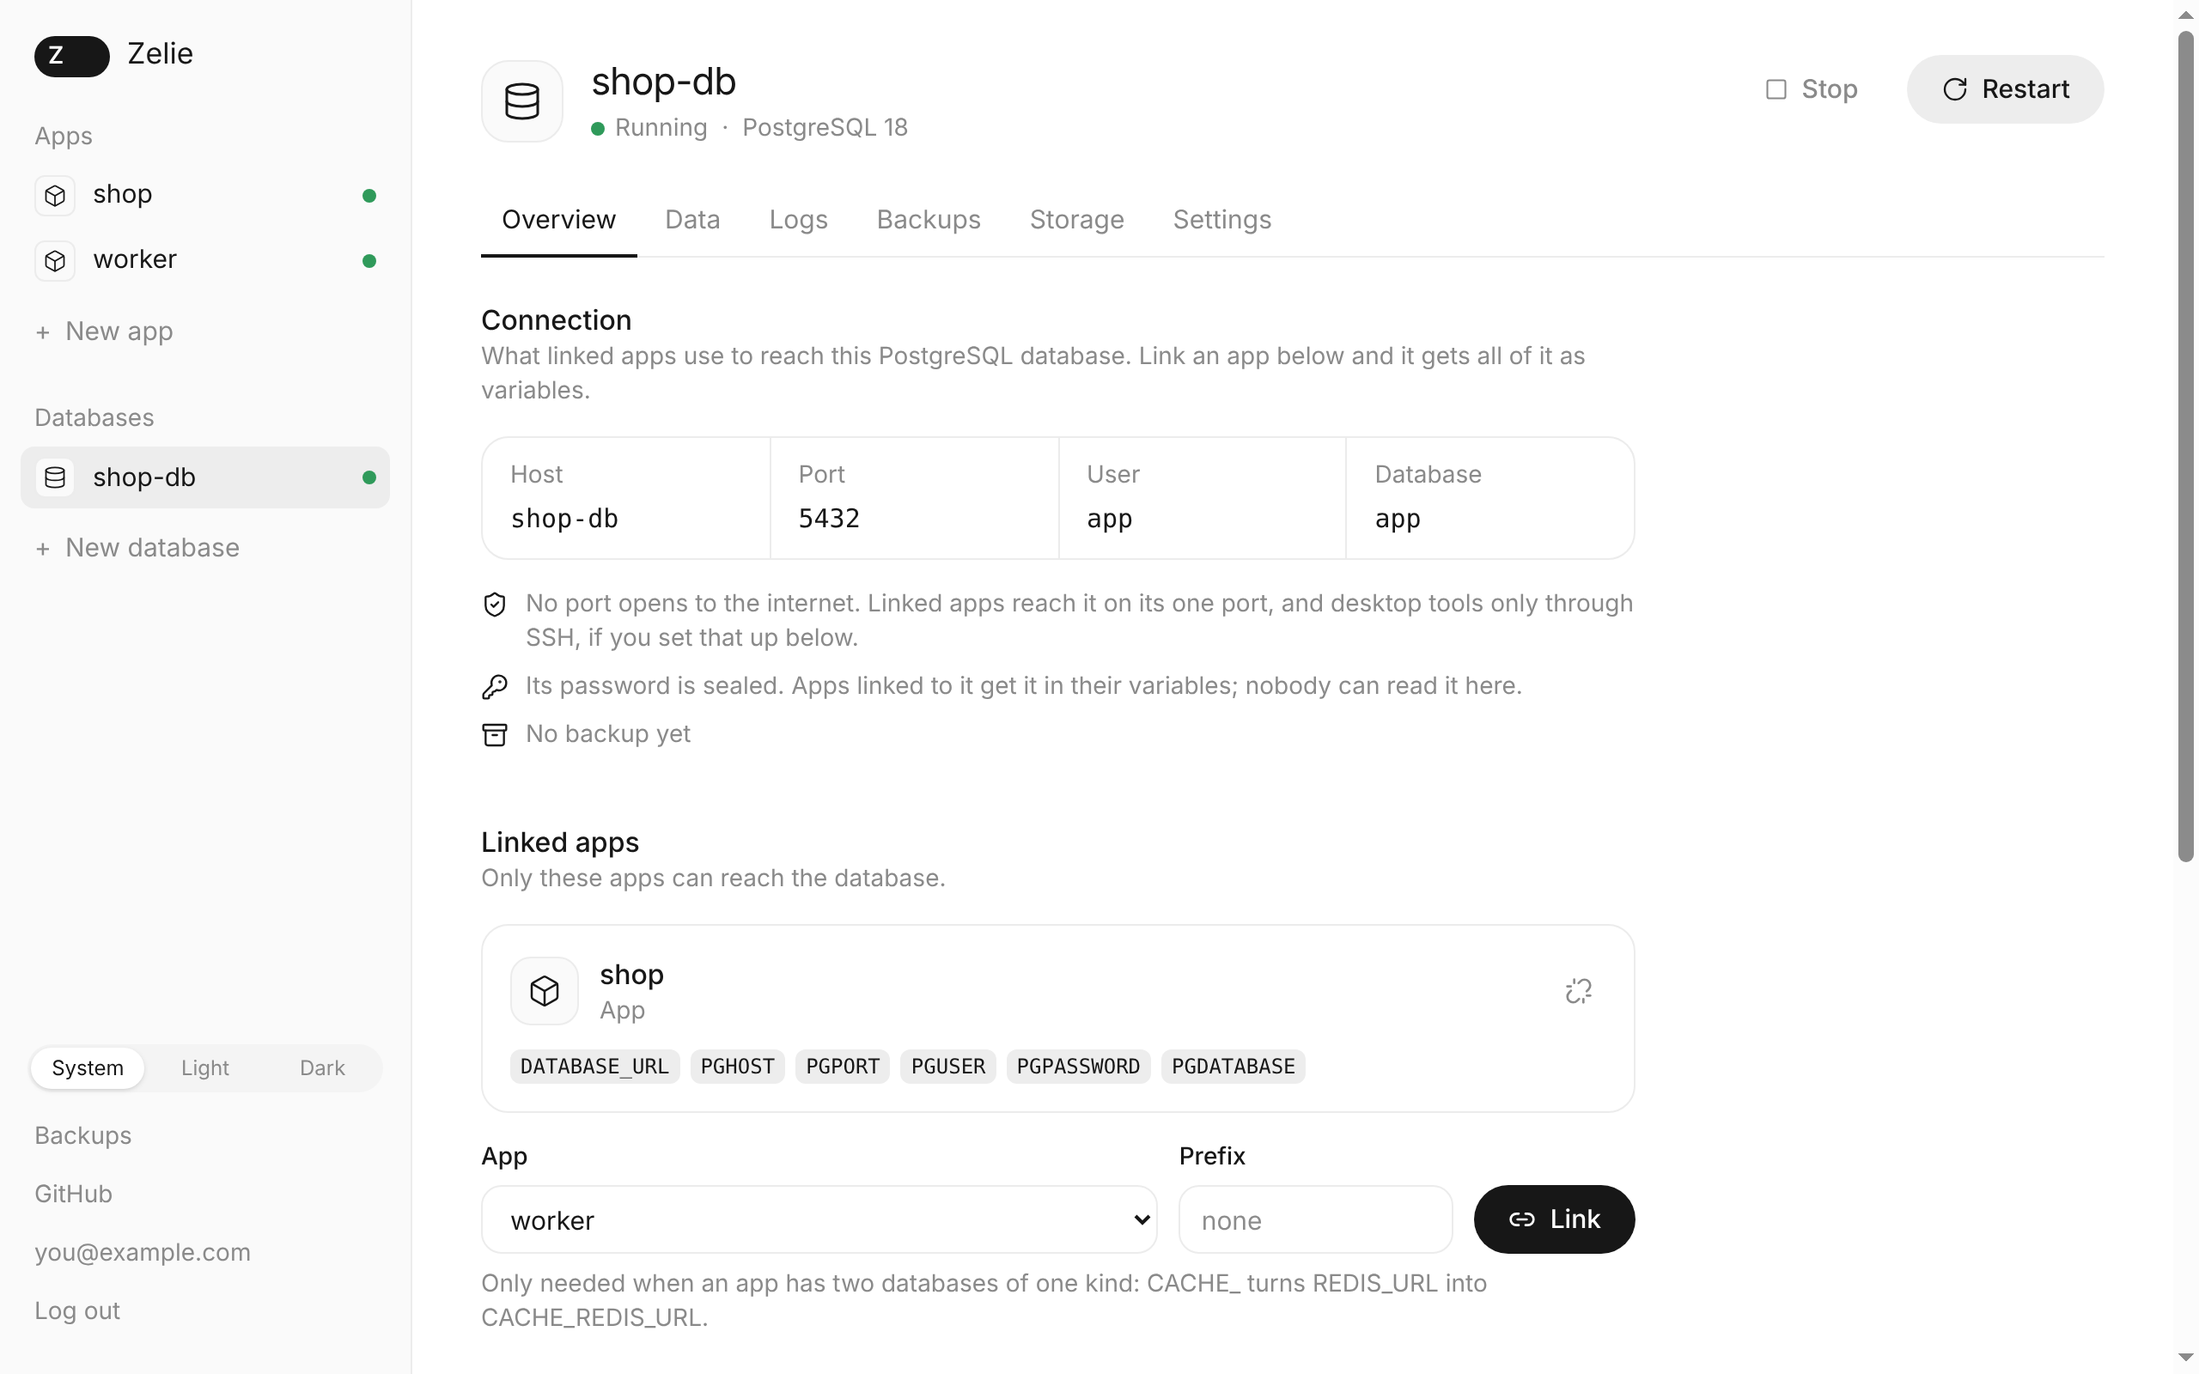
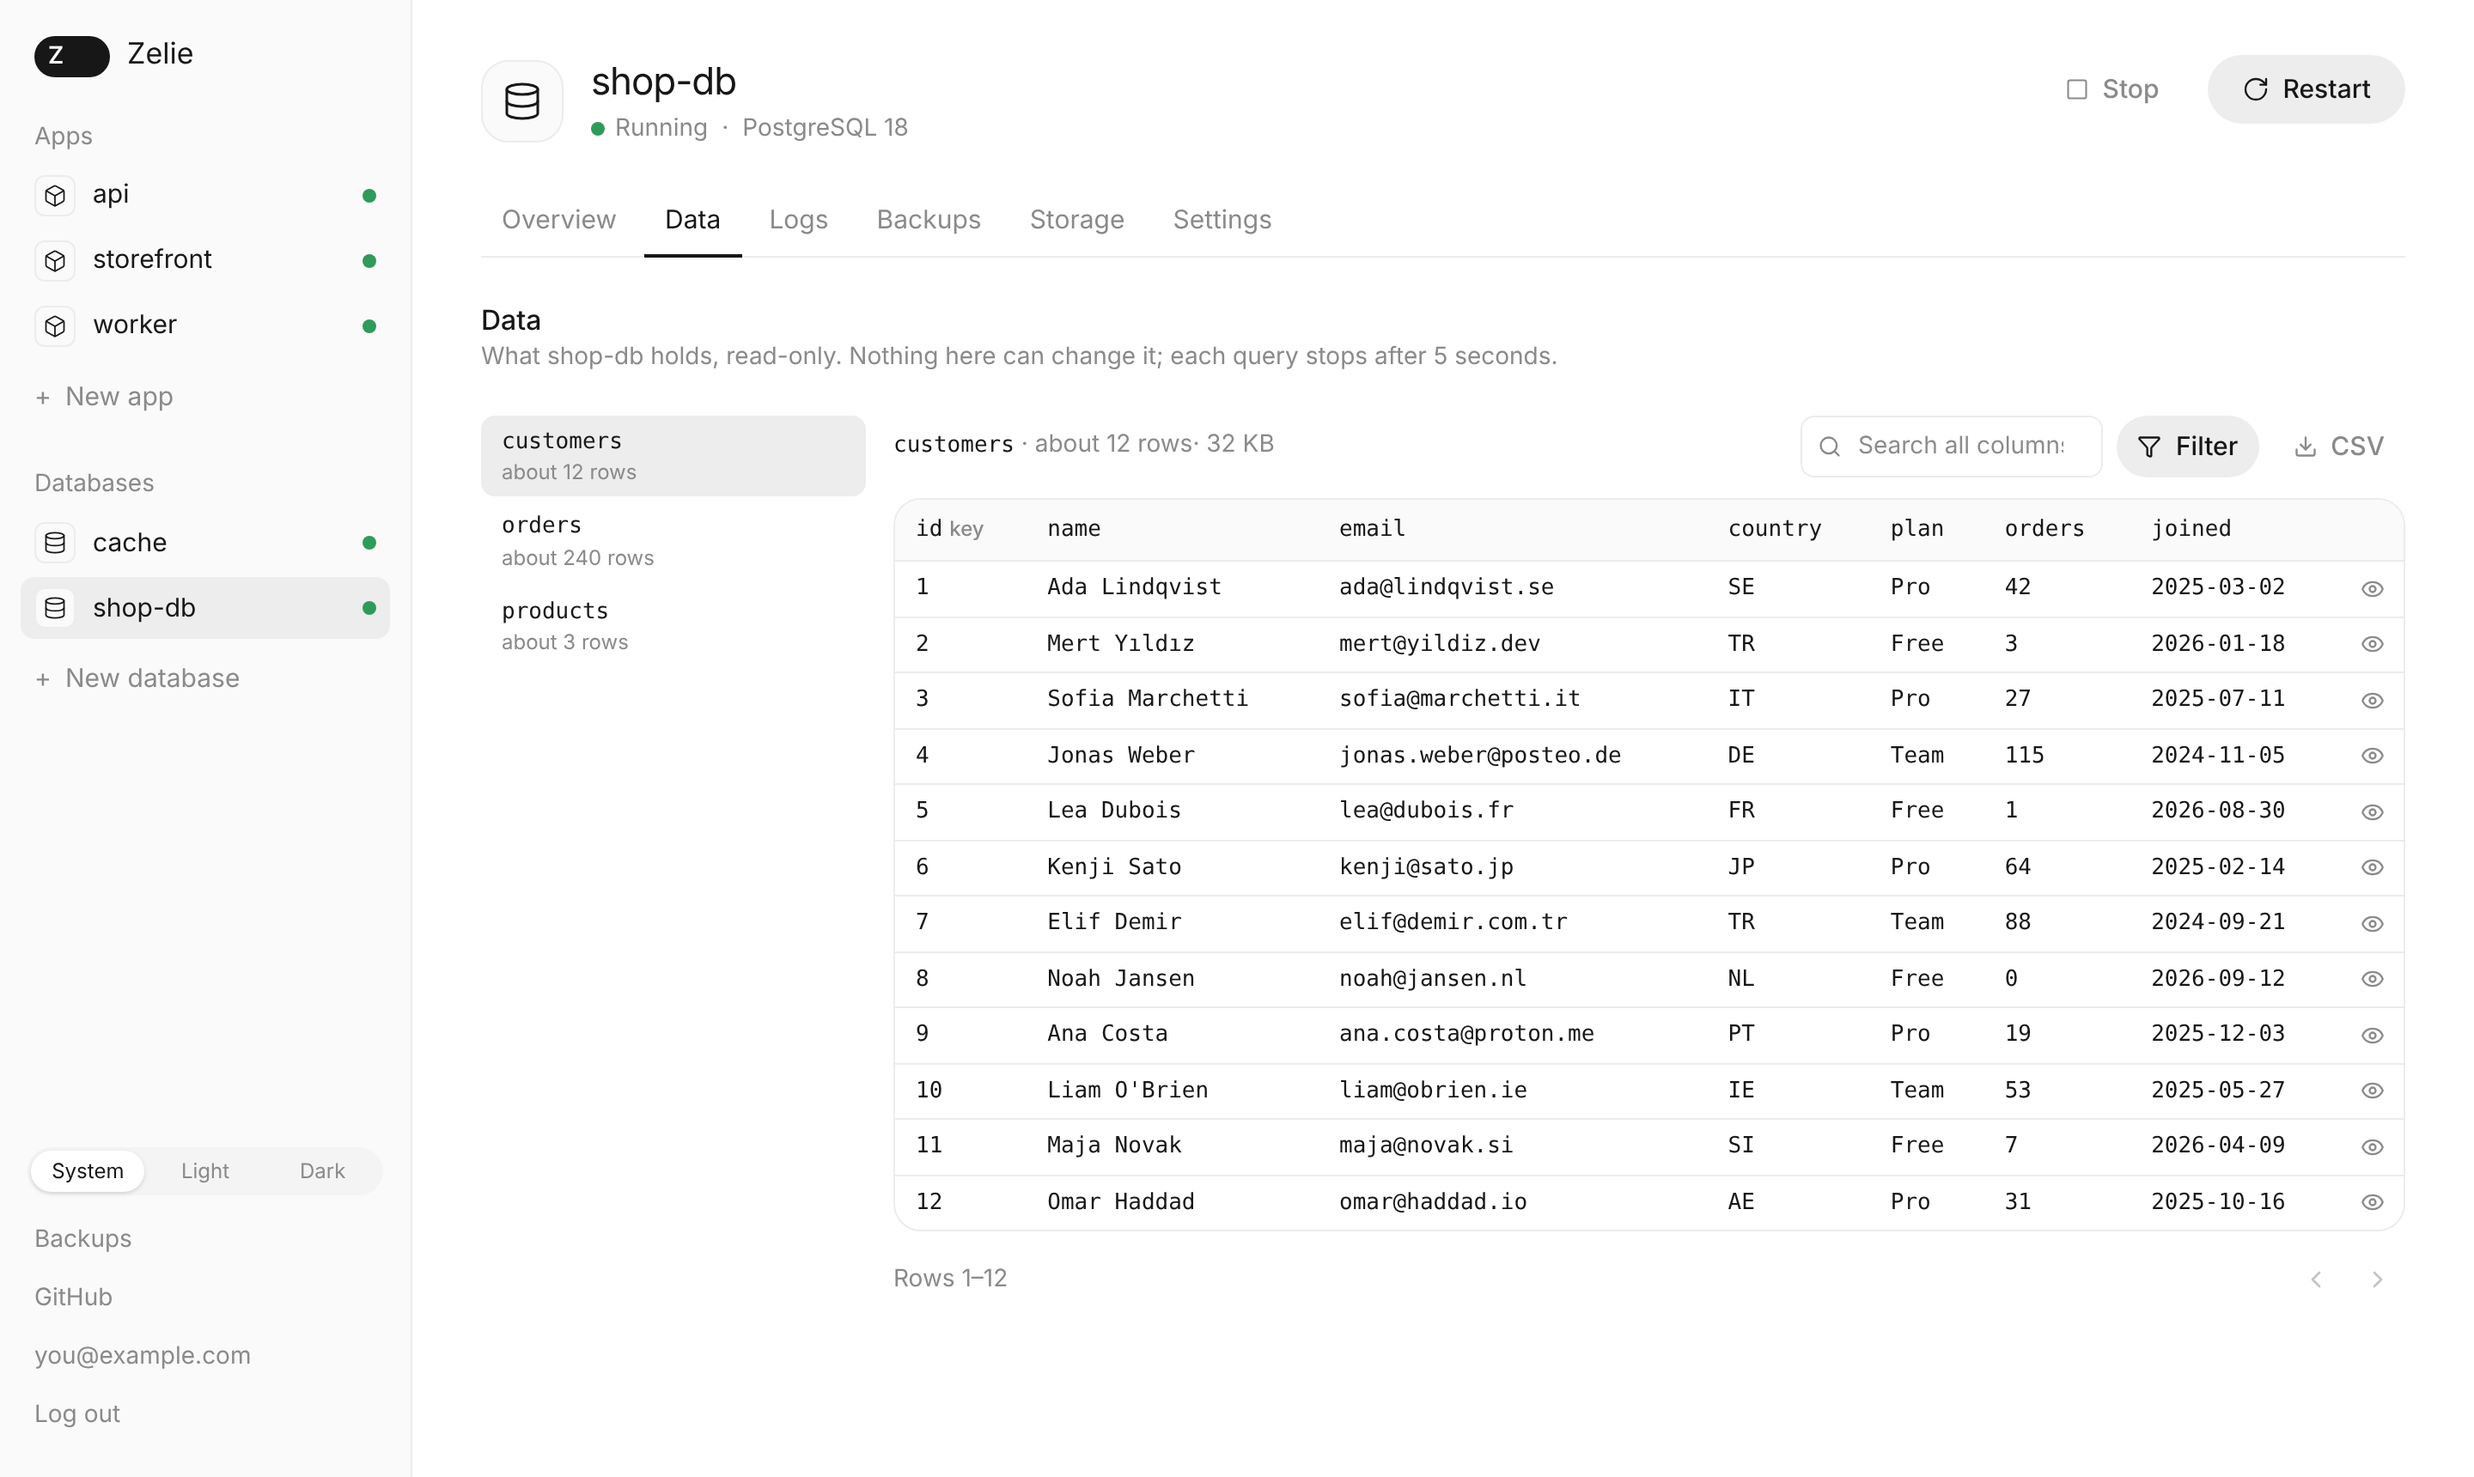
README: Zelie Panel, what it is and what it replaces; an overview picture first, then a database's data

diff --git a/web/src/lib/ui/TableData.svelte b/web/src/lib/ui/TableData.svelte
@@ -217,8 +217,8 @@
 			{#if chosen}
 				<div class="flex flex-wrap items-center justify-between gap-2">
 					<p class="min-w-0 text-sm text-muted">
-						<span class="font-mono text-[13px] text-fg">{label(chosen)}</span> · {rowsLabel(chosen)}{#if !chosen.view && chosen.bytes > 0}
-							· {bytes(chosen.bytes)}{/if}
+						<span class="font-mono text-[13px] text-fg">{label(chosen)}</span> · {rowsLabel(chosen)}{#if !chosen.view && chosen.bytes > 0}{' '}·
+							{bytes(chosen.bytes)}{/if}
 					</p>
 					<div class="flex flex-wrap gap-2">
 						<form class="relative" onsubmit={find}>

diff --git a/README.md b/README.md
@@ -1,14 +1,21 @@
-# Zelie
+# Zelie Panel
 
-A server panel for your own machine. Zelie deploys apps from GitHub and runs their
-databases, and game servers are next. It installs as a single file and is managed from
-the browser.
+Zelie is a server panel for your own machine. Give it a Node.js, Python or Go app from
+GitHub, a Docker image, or soon a game server, and it builds it, runs it and puts it
+online with HTTPS. You skip the setup: no reverse proxy to configure, no certificates to
+renew, no Dockerfile unless you want one.
+
+It is meant to replace the older panels, such as Pterodactyl, Pelican and cPanel, with
+something lighter and safer. Zelie is a single binary, with no web server, PHP or
+database server of its own to look after. Every app runs in its own locked-down
+container, and a setup wizard asks a few questions and gets you to your first app. When
+one server is not enough, the same panel will run several.
 
 > [!WARNING]
 > **Pre-alpha.** Zelie is in early development. There is no release yet, and it is not
 > ready for production or for any server you care about.
 
-![A database in Zelie: how apps reach it, and the apps linked to it](docs/images/database.png)
+![Zelie's home page: three apps and two databases, all live](docs/images/overview.png)
 
 ## What it does
 
@@ -22,10 +29,10 @@ the browser.
 - Seals secrets as they are saved, so the web interface cannot read them back.
 - Asks for a passkey or an authenticator app at every login.
 
-![An app's deployments, with its status, image and domain](docs/images/app.png)
+![A PostgreSQL database's tables, browsed read-only in Zelie](docs/images/database.png)
 
-Coming next: game servers from Pterodactyl and Pelican eggs, a one-command installer with
-updates, and several servers from one panel.
+Coming next: game servers from Pterodactyl and Pelican eggs, the one-command installer
+with updates, and several servers from one panel.
 
 [docs/features.md](docs/features.md) describes each feature, and
 [docs/architecture.md](docs/architecture.md) explains how Zelie is built and why.
